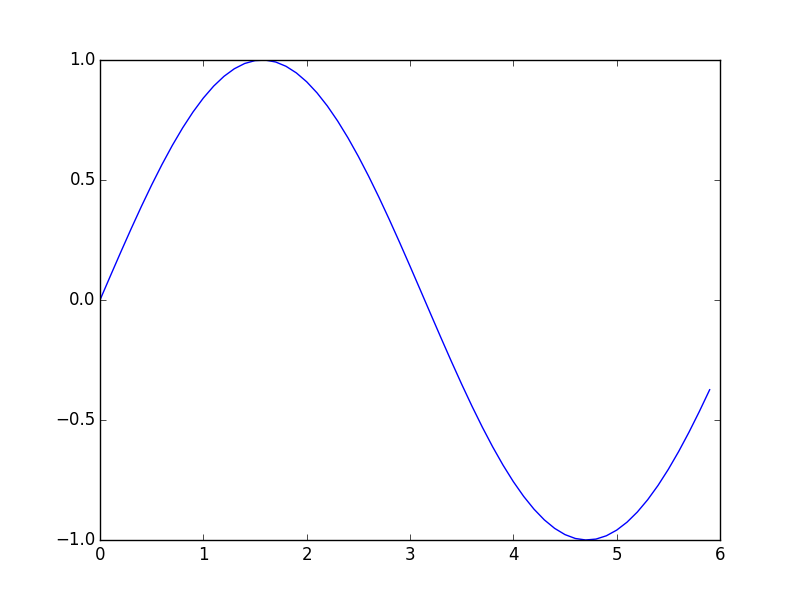
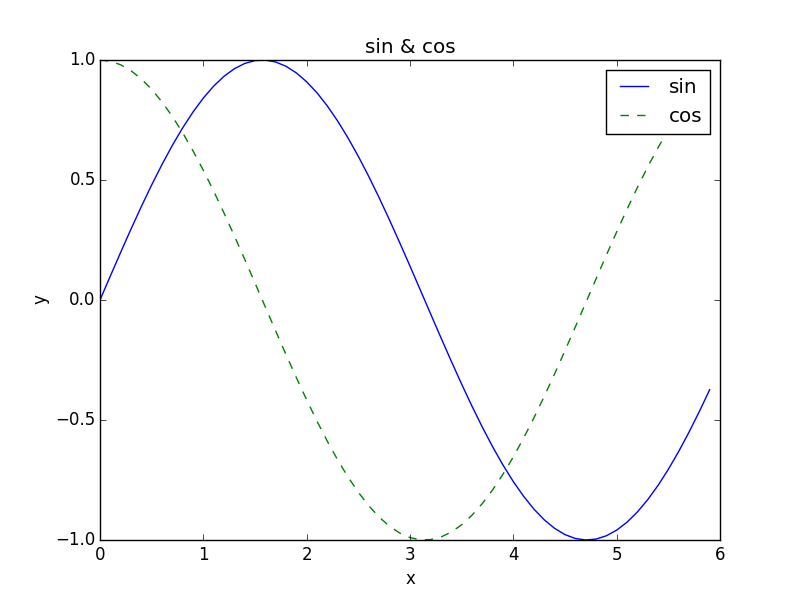
cos関数追加

Changed region(s): [[0.75, 0.09, 0.9062, 0.24], [0.4375, 0.06, 0.5625, 0.09], [0.0312, 0.48, 0.0625, 0.51]]

diff --git a/dl1-6-1.py b/dl1-6-1.py
@@ -1,3 +1,5 @@
+# グラフを描画するプログラム
+
 # python 3.4.2で動作確認
 # Dropboxへのアップロードを行うため、別途下記リンクを参考に設定が必要
 # https://auxin01.wordpress.com/2016/08/22/raspberry-pi_raspbian_dropbox-uploader2016/
@@ -25,10 +27,16 @@ import traceback
 
 # データの作成
 x = np.arange(0, 6, 0.1)
-y = np.sin(x)
+y1 = np.sin(x)
+y2 = np.cos(x)
 
 # グラフの描画
-plt.plot(x, y)
+plt.plot(x, y1, label="sin")
+plt.plot(x, y2, linestyle = "--", label="cos") # 破線で描画
+plt.xlabel("x") # x軸のラベル
+plt.ylabel("y") # y軸のラベル
+plt.title('sin & cos') # タイトル
+plt.legend()
 plt.show()
 
 # ファイル名の取得
